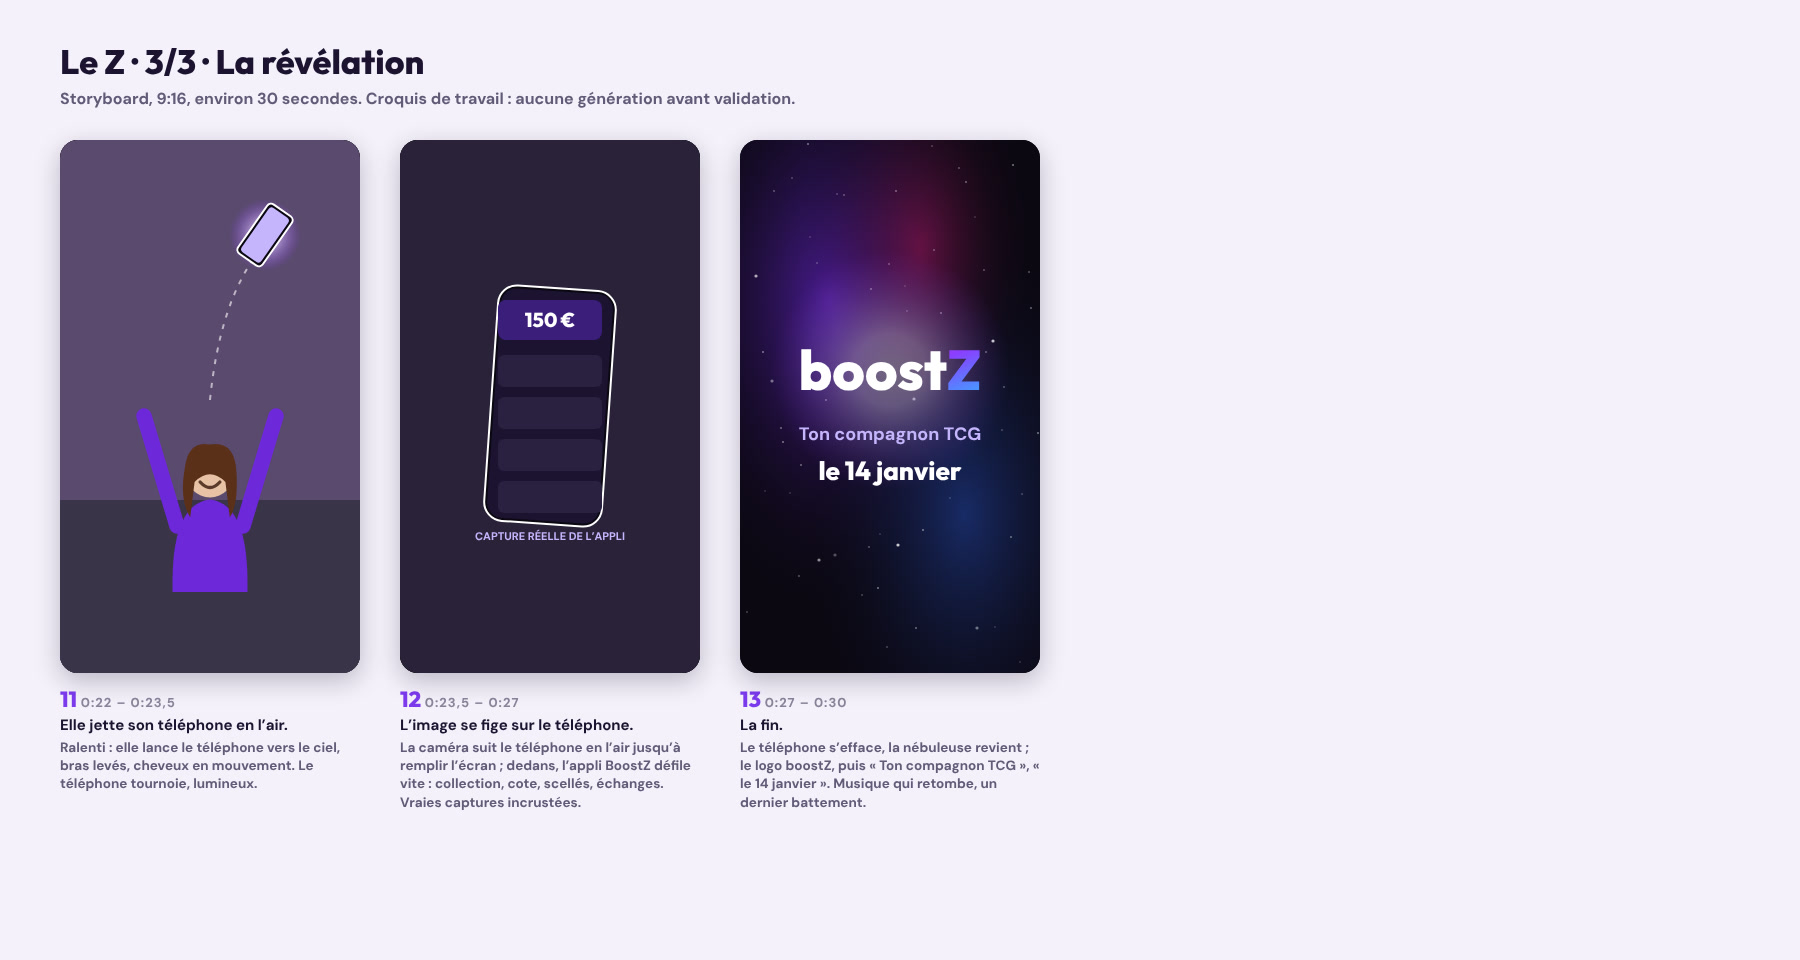
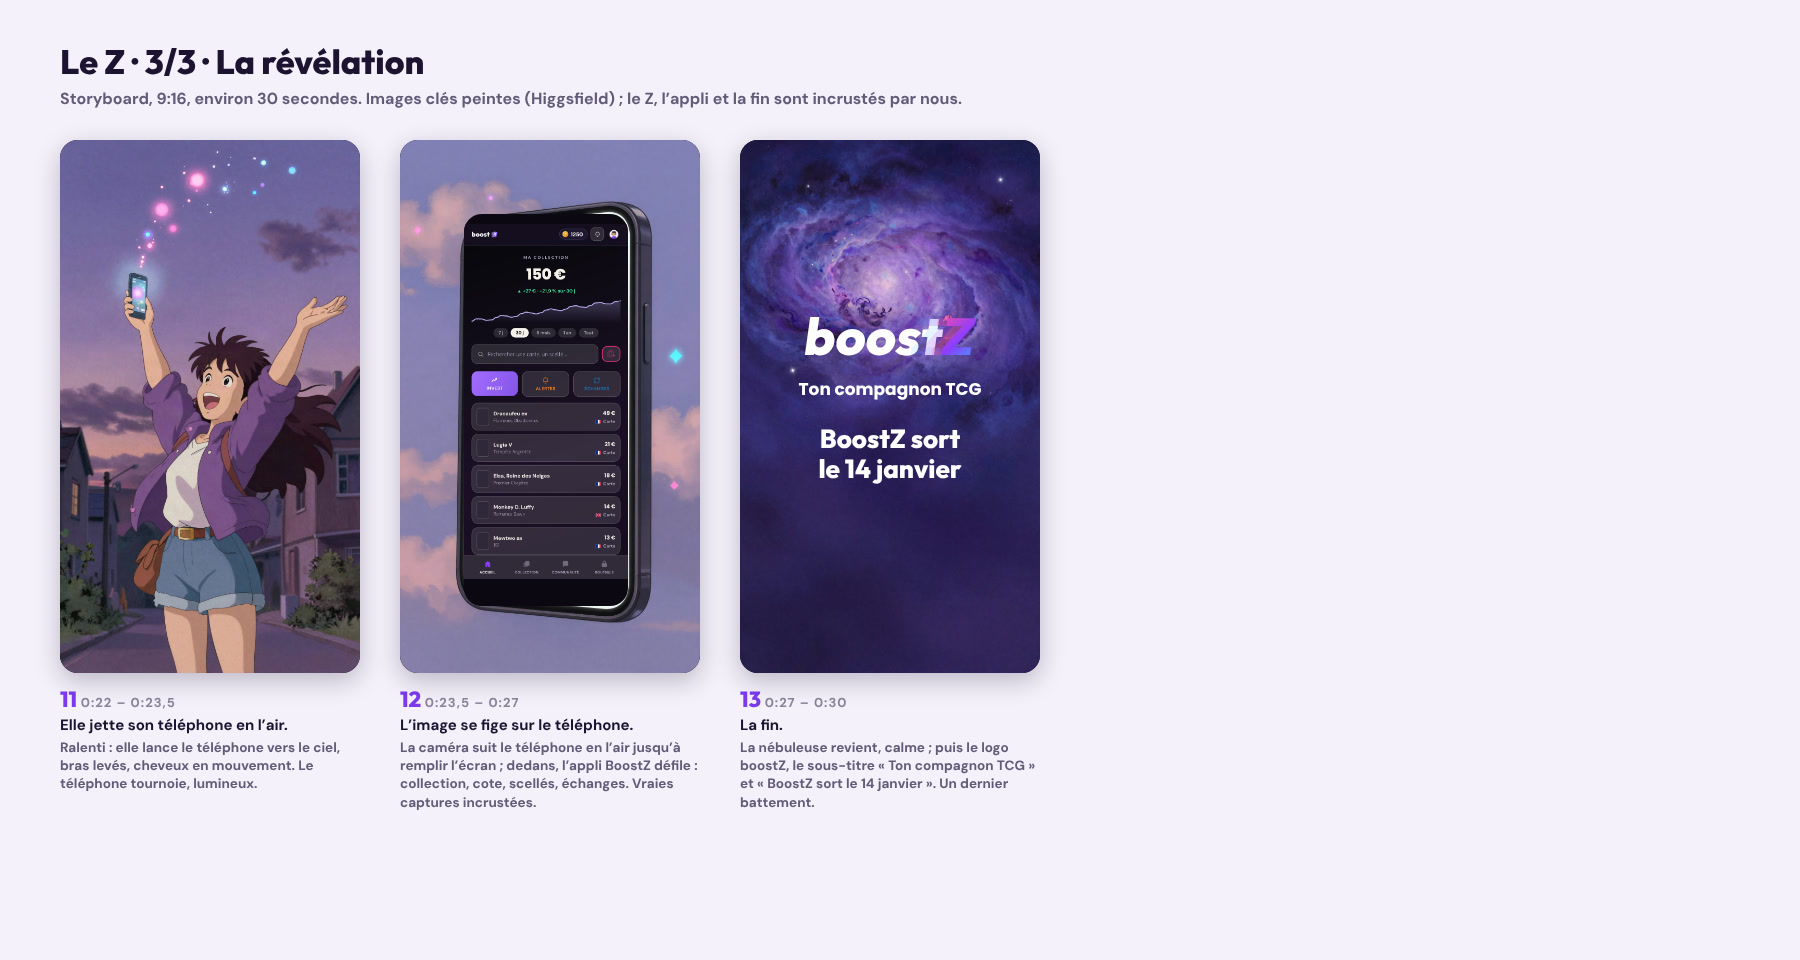
Redraw the Z video storyboard with painterly keyframes
TanPib liked the painterly 2D test of shot 6 ("petit côté ghibli") and
asked for the whole storyboard in that style. Each of the 13 panels now
shows a Higgsfield z_image keyframe; the Z, the app capture and the end
card are drawn on top, as they will be composited in the edit, so no brand
element or app screen is ever generated. The shot 6 test moves into plans/.

Claude-Session: https://claude.ai/code/session_01KYjmNhJZrtvo4jRtggkgV3

Changed region(s): [[0.0311, 0.0938, 0.5911, 0.7188], [0.4044, 0.75, 0.5911, 0.8438], [0.2178, 0.8125, 0.3733, 0.8438]]

diff --git a/gabarits/storyboard-z.html b/gabarits/storyboard-z.html
@@ -9,7 +9,11 @@
 // a shop and its QR code, friends trading) and ends in a young woman's phone,
 // which she throws up in joy; the camera locks on the phone, the app scrolls,
 // and the end card says « BoostZ, ton compagnon TCG, le 14 janvier ».
-// Sketches only, to agree the shots before any generation (Higgsfield).
+// First round: SVG sketches. Second round (07/11/2026): TanPib preferred a
+// painterly 2D look (« petit côté ghibli ») to the 3D tests, so every panel
+// now shows a Higgsfield z_image keyframe (images/video-z/plans/plan-NN.jpg).
+// Brand elements are never generated: the Z, the app capture and the end
+// card are drawn here on top, as they will be composited in the edit.
 // Render: node rendu.mjs storyboard-z.html images
 document.head.insertAdjacentHTML('beforeend', `<style>
   .p { width: 1800px; height: 960px; background: #F4F1FA; }
@@ -56,8 +60,22 @@ const PANELS = [
   ['12', '0:23,5 – 0:27', 'L’image se fige sur le téléphone.', 'La caméra suit le téléphone en l’air jusqu’à remplir l’écran ; dedans, l’appli BoostZ défile vite : collection, cote, scellés, échanges. Vraies captures incrustées.', svg(`<rect width="300" height="533" fill="#2A2238"/>` + phone(150, 266, 118, 4, '#1B1330') + `<rect x="98" y="160" width="104" height="40" rx="8" fill="#3B1D7A"/><text x="150" y="187" text-anchor="middle" font-family="Outfit" font-weight="800" font-size="20" fill="#fff">150 €</text>` + [0, 1, 2, 3].map((i) => `<rect x="98" y="${215 + i * 42}" width="104" height="32" rx="6" fill="#2A2140"/>`).join('') + `<text x="150" y="400" text-anchor="middle" font-family="DM Sans" font-weight="700" font-size="11" fill="#C4B5FD">CAPTURE RÉELLE DE L’APPLI</text>`)],
   ['13', '0:27 – 0:30', 'La fin.', 'Le téléphone s’efface, la nébuleuse revient ; le logo boostZ, puis « Ton compagnon TCG », « le 14 janvier ». Musique qui retombe, un dernier battement.', svg(nebula + `<circle cx="150" cy="230" r="120" fill="url(##Gsp)" opacity=".35"/><text x="150" y="250" text-anchor="middle" font-family="Outfit" font-weight="800" font-size="56" fill="#fff">boost<tspan fill="url(##Gz)">Z</tspan></text><text x="150" y="300" text-anchor="middle" font-family="DM Sans" font-weight="700" font-size="18" fill="#C4B5FD">Ton compagnon TCG</text><text x="150" y="340" text-anchor="middle" font-family="Outfit" font-weight="800" font-size="26" fill="#fff">le 14 janvier</text>`)]
 ];
+// Painted keyframes, with what we composite ourselves on top.
+const zOver = (x, y, s) => `<svg class="abs" width="300" height="533" viewBox="0 0 300 533" style="left:0;top:0"><defs><linearGradient id="zg${x}" x1="0" y1="0" x2="1" y2="1"><stop offset="0" stop-color="${GR[0]}"/><stop offset=".55" stop-color="${GR[1]}"/><stop offset="1" stop-color="${GR[2]}"/></linearGradient></defs>${Z(x, y, s).replace(/##Gz/g, '#zg' + x)}</svg>`;
+const OVER = {
+  4: zOver(150, 282, 1.25),
+  12: `<div class="abs" style="left:64px;top:74px;width:164px;height:392px;border-radius:18px;overflow:hidden;background:#0B0812"><img src="shots/app-accueil.jpg" style="width:164px;display:block;margin-top:10px"></div>`,
+  13: `<div class="abs" style="left:0;top:170px;width:300px;display:flex;flex-direction:column;align-items:center">${wordmark(52)}<div style="margin-top:14px;font-family:Poppins;font-weight:700;font-size:17px;color:#fff">Ton compagnon TCG</div><div style="margin-top:22px;font-family:Outfit;font-weight:800;font-size:26px;color:#fff;text-align:center;line-height:1.15">BoostZ sort<br>le 14 janvier</div></div>`
+};
+PANELS.forEach((pn, i) => { const k = i + 1; pn[4] = `<img src="../images/video-z/plans/plan-${String(k).padStart(2, '0')}.jpg" style="width:300px;height:533px;object-fit:cover;display:block">${OVER[k] || ''}`; });
+PANELS[5][2] = 'Un collectionneur au comptoir.';
+PANELS[5][3] = 'Boutique de quartier, lampe chaude. Il scanne une carte posée sur le comptoir ; la traînée rose, violette et bleue entre dans l’écran. Vraies cartes et vraie capture incrustées.';
+PANELS[6][3] += ' Bannières sans texte au montage.';
+PANELS[7][3] = 'Boutique de jeux, étagères de displays. Une cliente scanne le présentoir QR BoostZ (le vrai, incrusté), la traînée rebondit dans son téléphone.';
+PANELS[11][3] = 'La caméra suit le téléphone en l’air jusqu’à remplir l’écran ; dedans, l’appli BoostZ défile : collection, cote, scellés, échanges. Vraies captures incrustées.';
+PANELS[12][3] = 'La nébuleuse revient, calme ; puis le logo boostZ, le sous-titre « Ton compagnon TCG » et « BoostZ sort le 14 janvier ». Un dernier battement.';
 const sheet = (list, title) => `<div class="abs" style="left:60px;top:40px;font-family:Outfit;font-weight:800;font-size:34px;color:#1B1330">${title}</div>
-  <div class="abs" style="left:60px;top:88px;font-family:'DM Sans';font-weight:600;font-size:16px;color:#625B78">Storyboard, 9:16, environ 30 secondes. Croquis de travail : aucune génération avant validation.</div>
+  <div class="abs" style="left:60px;top:88px;font-family:'DM Sans';font-weight:600;font-size:16px;color:#625B78">Storyboard, 9:16, environ 30 secondes. Images clés peintes (Higgsfield) ; le Z, l’appli et la fin sont incrustés par nous.</div>
   ${list.map(([num, tc, t, note, fr], i) => `<div class="pan" style="left:${60 + (i % 5) * 340}px;top:${140}px"><div class="fr">${fr}</div><div class="cap"><span class="num">${num}</span> <span class="tc">${tc}</span><br>${t}</div><div class="note">${note}</div></div>`).join('')}`;
 carousel([['planche-1', sheet(PANELS.slice(0, 5), 'Le Z · 1/3 · L’éveil')], ['planche-2', sheet(PANELS.slice(5, 10), 'Le Z · 2/3 · Le monde réel')], ['planche-3', sheet(PANELS.slice(10), 'Le Z · 3/3 · La révélation')]]);
 </script></body></html>
